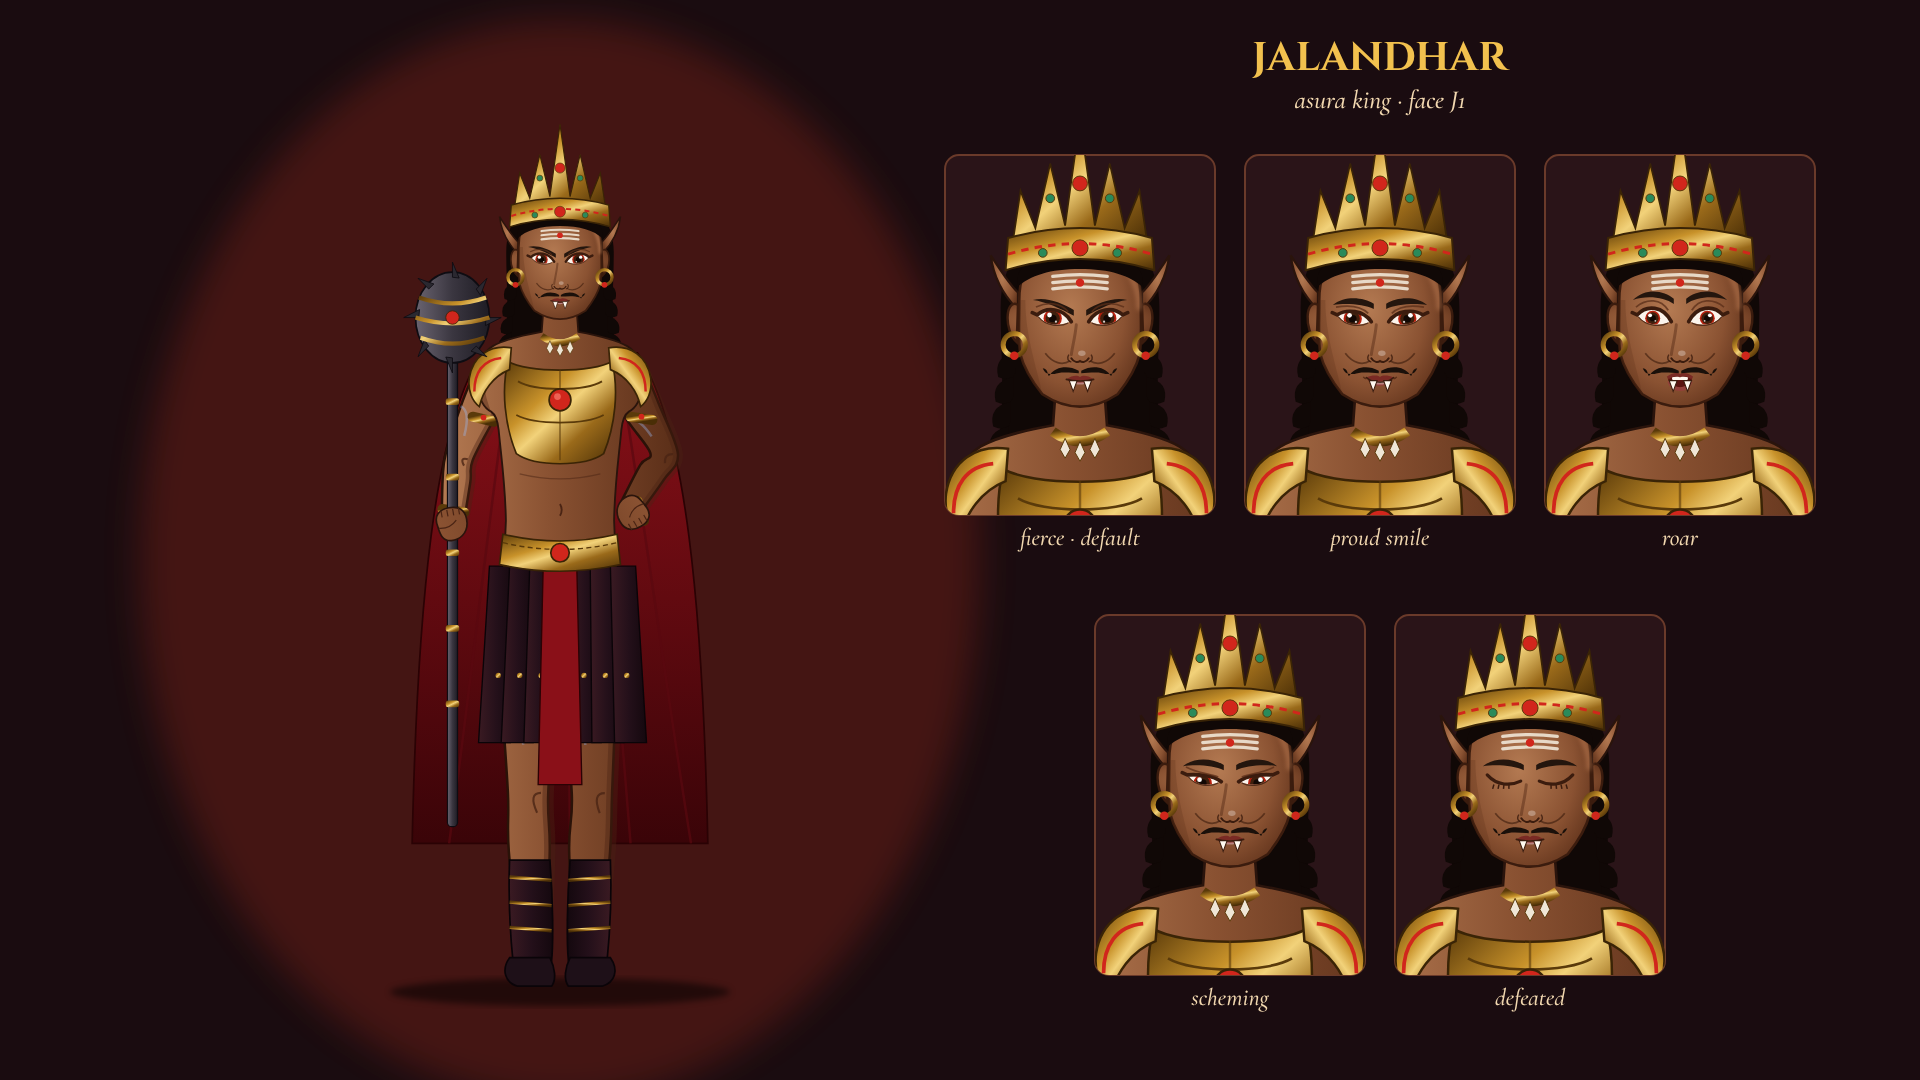
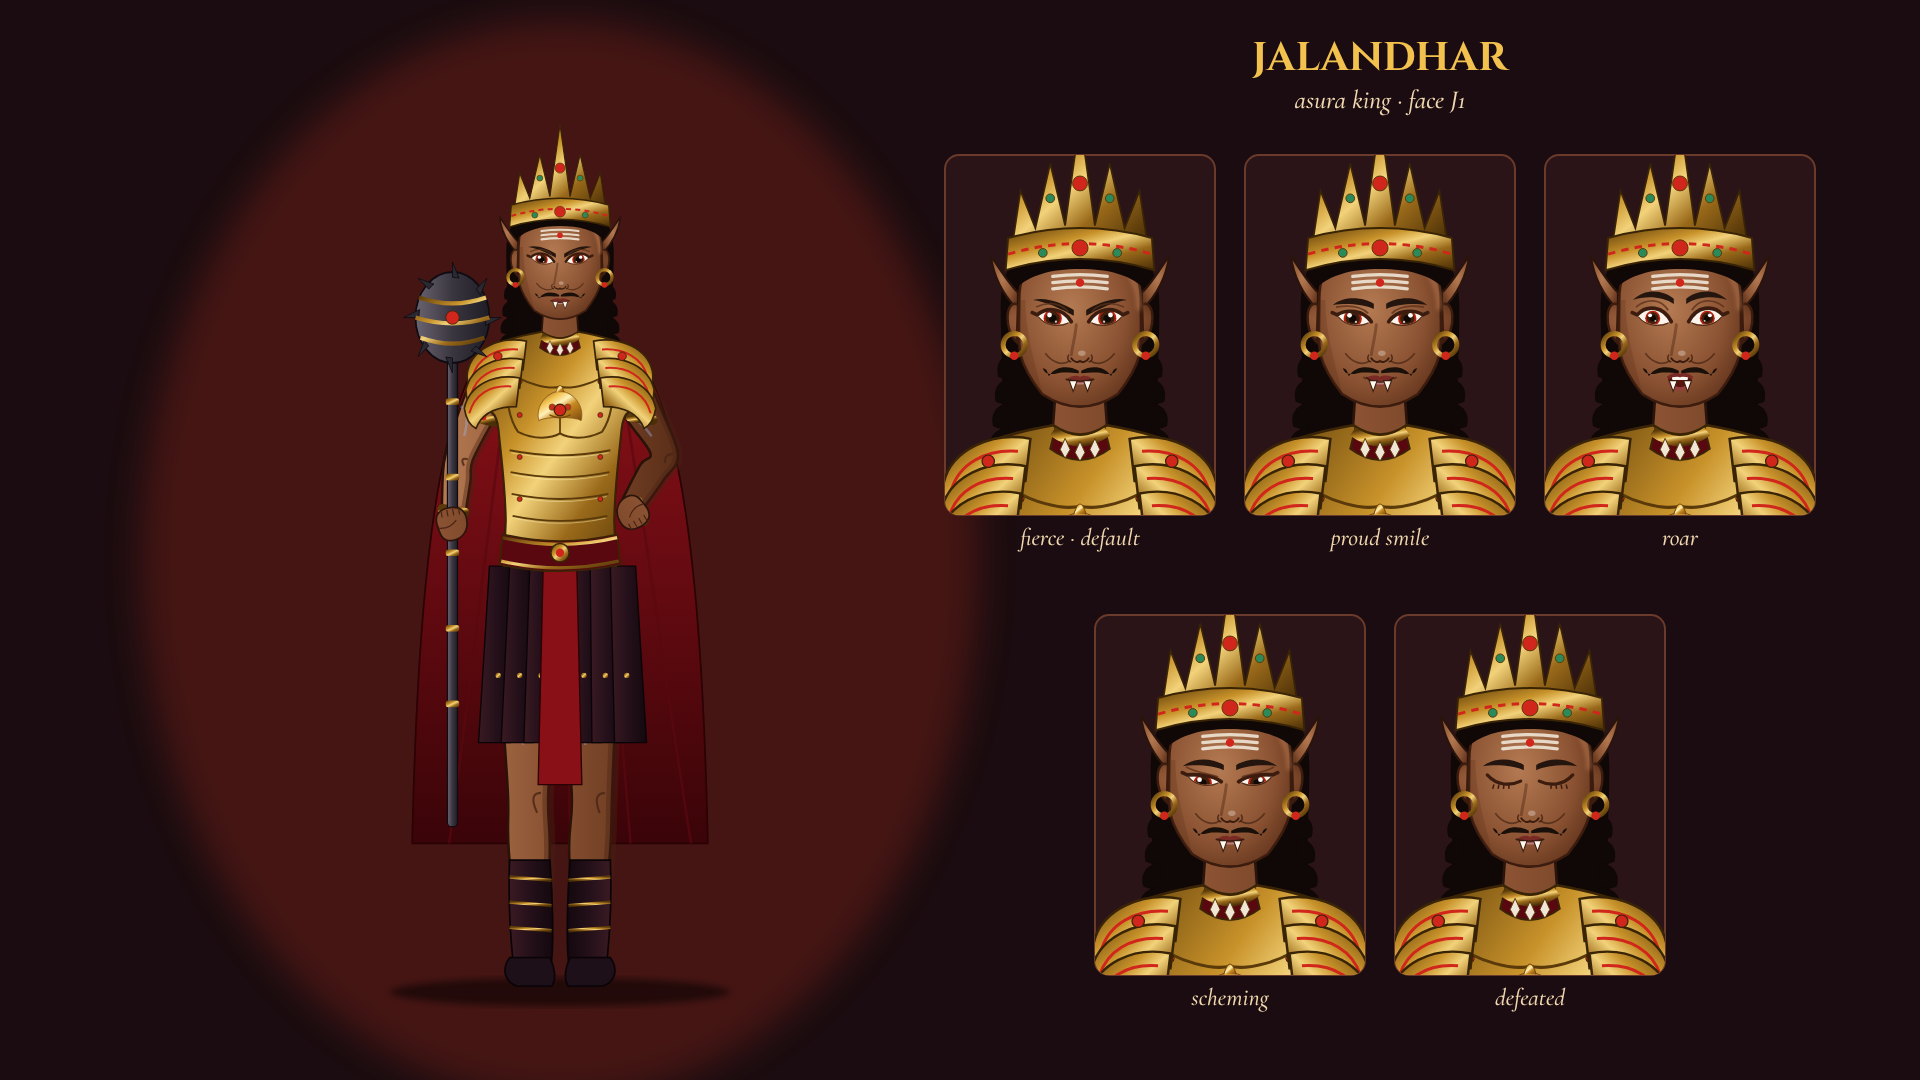
Jalandhar: full gold cuirass covering the torso to the waist, complete layered pauldrons, red belt
Claude-Session: https://claude.ai/code/session_01X3ArEdZK7W9b78YVvUKCgo

Changed region(s): [[0.4688, 0.3972, 0.9688, 0.4889], [0.5625, 0.825, 0.875, 0.9167], [0.2188, 0.3056, 0.3438, 0.55]]

diff --git a/devotional-studio/style-frames/jalandhar.js b/devotional-studio/style-frames/jalandhar.js
@@ -55,19 +55,27 @@ function upper(o = {}) {
     ${o.armsBack || ''}
     <path d="${torso}" fill="${SK}" stroke="${INK}" stroke-width="2.2"/>
     <path d="M-98 216 C -96 232 -90 242 -82 246 C -86 236 -90 224 -90 210Z" fill="${SH}" opacity=".4"/>
-    <!-- gold breastplate over the chest, leather straps -->
-    <path d="M-62 186 C -40 200 40 200 62 186 C 70 220 66 262 52 296 C 30 312 -30 312 -52 296 C -66 262 -70 220 -62 186Z" fill="url(#darkGold)" stroke="#3a2406" stroke-width="2"/>
-    <path d="M-50 210 C -30 222 30 222 50 210 M-52 250 C -30 262 30 262 52 250" stroke="#5a3a0a" stroke-width="2.2" fill="none"/>
-    <path d="M0 196 L 0 304" stroke="#5a3a0a" stroke-width="2" opacity=".6"/>
-    <circle cx="0" cy="232" r="13" fill="#d1261c" stroke="#3a2406" stroke-width="2"/><circle cx="-3" cy="228" r="4" fill="#ff8a7a" opacity=".6"/>
-    ${[-1, 1].map(sx => `<path transform="scale(${sx},1)" d="M-58 170 C -84 166 -104 180 -108 206 C -110 222 -104 234 -96 240 C -92 222 -80 204 -60 196Z" fill="url(#darkGold)" stroke="#3a2406" stroke-width="2"/>
-      <path transform="scale(${sx},1)" d="M-70 182 C -92 184 -102 200 -102 222" stroke="#d1261c" stroke-width="3" fill="none"/>`).join('')}
-    <!-- abdomen skin visible, belt -->
-    <path d="M-48 320 Q 0 332 48 320" stroke="${SH}" stroke-width="1.6" fill="none" opacity=".5"/>
-    <path d="M0 356 Q 4 363 0 370" stroke="${SH}" stroke-width="2.2" fill="none"/>
-    <path d="M-68 392 Q 0 408 68 392 L 72 428 Q 0 444 -72 428Z" fill="url(#darkGold)" stroke="#3a2406" stroke-width="2"/>
-    <path d="M-68 402 Q 0 418 68 402" stroke="#5a3a0a" stroke-width="1.6" fill="none" stroke-dasharray="6 4"/>
-    <circle cx="0" cy="414" r="11" fill="#d1261c" stroke="#3a2406" stroke-width="2"/>
+    <!-- full gold cuirass: covers the whole torso from the collar to the waist -->
+    <path d="M -21.8 151 C -44 155 -66 160 -80 168 C -94 176 -100 196 -98 216 C -96 232 -90 242 -82 246 C -76 250 -74 258 -73 268 C -70 300 -65 334 -64.4 376 L -66.7 430 L 66.7 430 L 64.4 376 C 65 334 70 300 73 268 C 74 258 76 250 82 246 C 90 242 96 232 98 216 C 100 196 94 176 80 168 C 66 160 44 155 21.8 151 Q 0 166 -21.8 151 Z" fill="url(#darkGold)" stroke="#3a2406" stroke-width="2.2"/>
+    <path d="M-20 154 Q 0 170 20 154 L 24 170 Q 0 188 -24 170Z" fill="#5a0810" stroke="#3a2406" stroke-width="1.6"/>
+    <!-- chest plates -->
+    <path d="M-62 196 C -44 214 -10 220 0 216 C 10 220 44 214 62 196 C 66 230 60 256 50 270 C 30 280 10 278 0 272 C -10 278 -30 280 -50 270 C -60 256 -66 230 -62 196Z" fill="none" stroke="#5a3a0a" stroke-width="2.4"/>
+    <path d="M0 216 L 0 272" stroke="#5a3a0a" stroke-width="2"/>
+    <!-- lower plates (segmented) -->
+    ${[292, 318, 344, 370].map((y, i) => `<path d="M${-60 + i * 1.2} ${y} Q 0 ${y + 12} ${60 - i * 1.2} ${y}" stroke="#5a3a0a" stroke-width="2.2" fill="none"/><path d="M${-58 + i * 1.2} ${y + 3} Q 0 ${y + 15} ${58 - i * 1.2} ${y + 3}" stroke="#fff1b8" stroke-width="1.2" fill="none" opacity=".45"/>`).join('')}
+    <!-- central emblem: face of glory with ruby -->
+    <g transform="translate(0,244) scale(.42)">${A.kirtimukha(0, 0, 1)}</g>
+    <circle cx="0" cy="244" r="7" fill="#d1261c" stroke="#3a2406" stroke-width="1.4"/>
+    ${[-1, 1].map(sx => `<g transform="scale(${sx},1)">${[210, 250, 300, 350].map(y => `<circle cx="-48" cy="${y}" r="3" fill="#d1261c" stroke="#3a2406" stroke-width=".8"/>`).join('')}</g>`).join('')}
+    <!-- full layered pauldrons covering each shoulder -->
+    ${[-1, 1].map(sx => `<g transform="scale(${sx},1)">
+      ${[0, 1, 2].map(k => `<path d="M${-40 - k * 4} ${162 + k * 22} C ${-70 - k * 4} ${156 + k * 22} ${-104 - k * 2} ${170 + k * 22} ${-110 - k * 2} ${198 + k * 22} C ${-112} ${210 + k * 22} ${-108} ${218 + k * 22} ${-100} ${222 + k * 22} C ${-90 - k * 2} ${206 + k * 22} ${-70 - k * 4} ${196 + k * 22} ${-44 - k * 4} ${196 + k * 22}Z" fill="url(#darkGold)" stroke="#3a2406" stroke-width="2"/>
+        <path d="M${-50 - k * 4} ${172 + k * 22} C ${-76 - k * 4} ${170 + k * 22} ${-98 - k * 2} ${182 + k * 22} ${-104 - k * 2} ${204 + k * 22}" stroke="#d1261c" stroke-width="2.4" fill="none"/>`).join('')}
+      <circle cx="-74" cy="180" r="5" fill="#d1261c" stroke="#3a2406"/></g>`).join('')}
+    <!-- belt -->
+    <path d="M-68 392 Q 0 408 68 392 L 72 428 Q 0 444 -72 428Z" fill="#5a0810" stroke="#3a2406" stroke-width="2"/>
+    <path d="M-68 396 Q 0 412 68 396 M-70 424 Q 0 440 70 424" stroke="url(#darkGold)" stroke-width="4" fill="none"/>
+    <circle cx="0" cy="414" r="11" fill="url(#darkGold)" stroke="#3a2406" stroke-width="2"/><circle cx="0" cy="414" r="5" fill="#d1261c"/>
     <!-- neck + necklace -->
     <path d="M-22 156 Q 0 172 22 156" stroke="url(#darkGold)" stroke-width="8" fill="none"/>
     ${[-12, 0, 12].map(x => `<path d="M${x} ${164 - Math.abs(x) * .2} l 4 9 -4 7 -4 -7z" fill="#efe6d6" stroke="#5a3a0a" stroke-width=".8"/>`).join('')}
